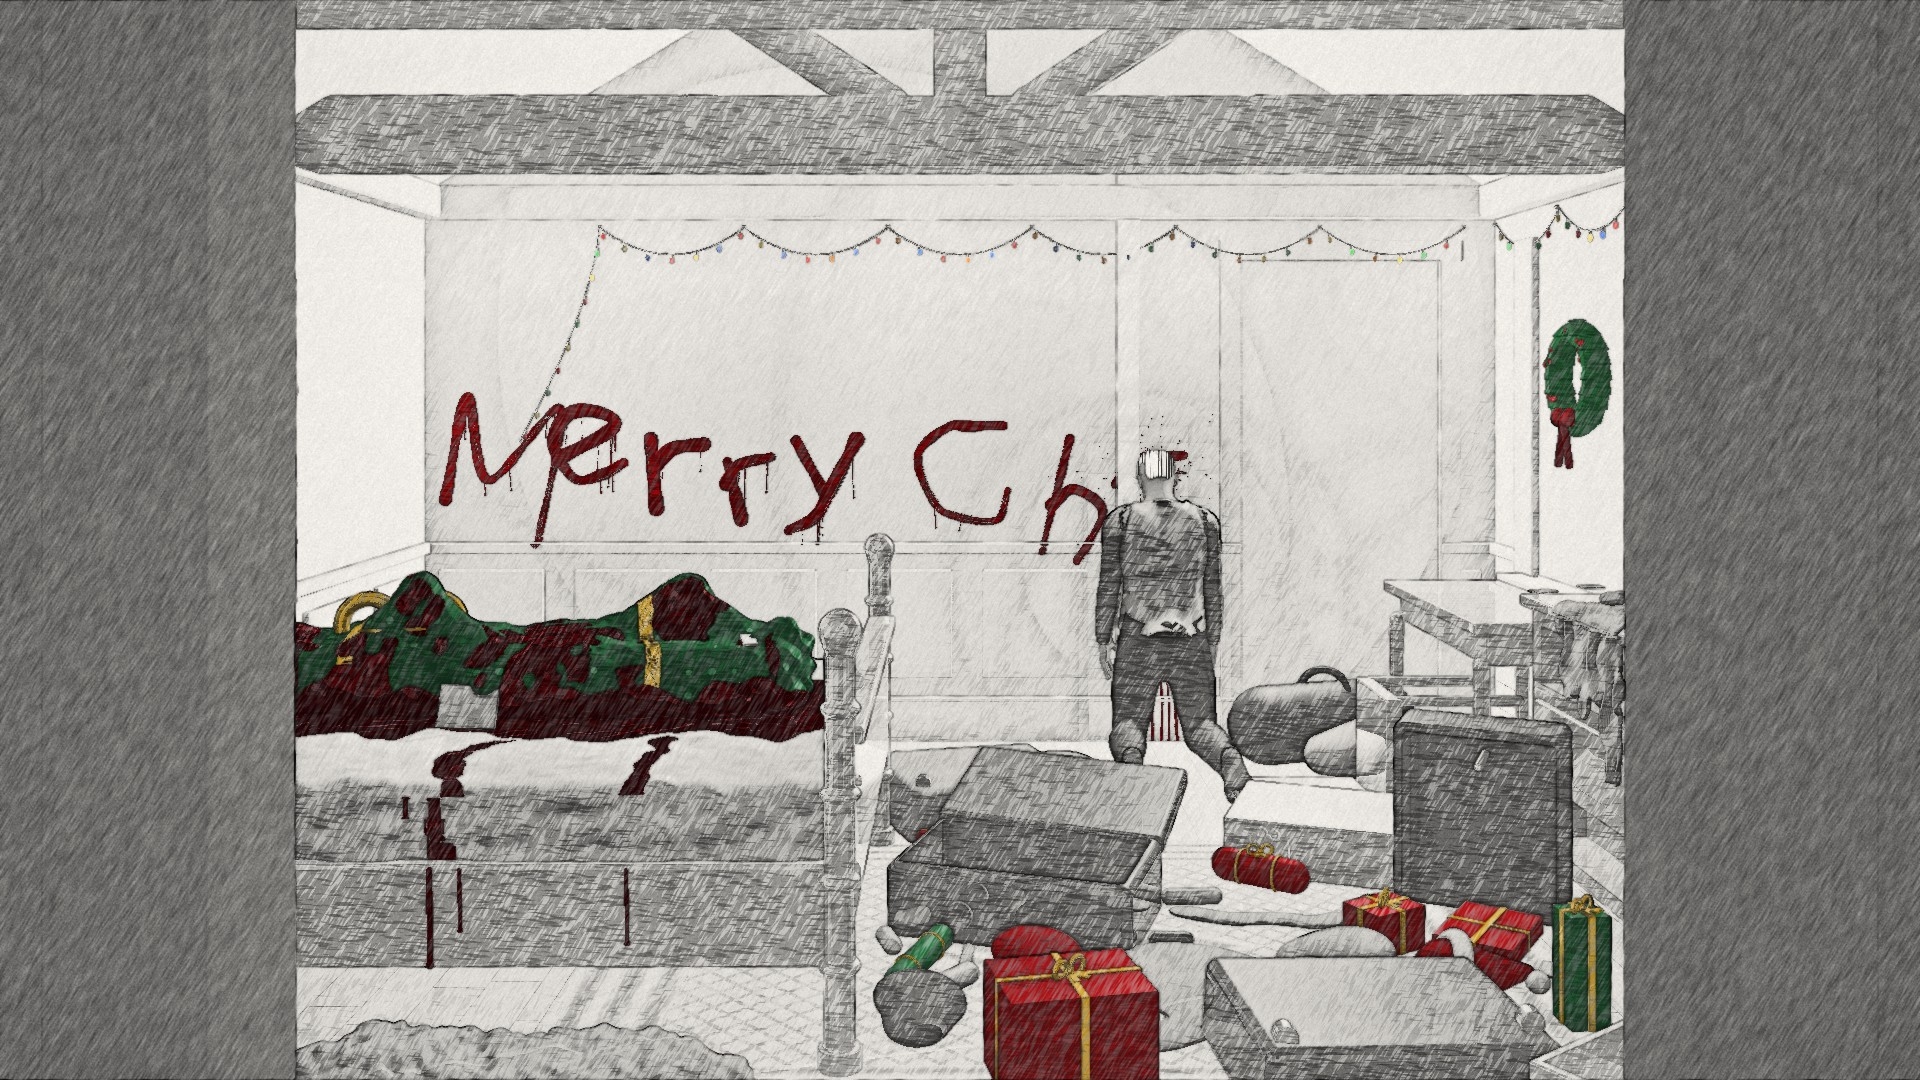
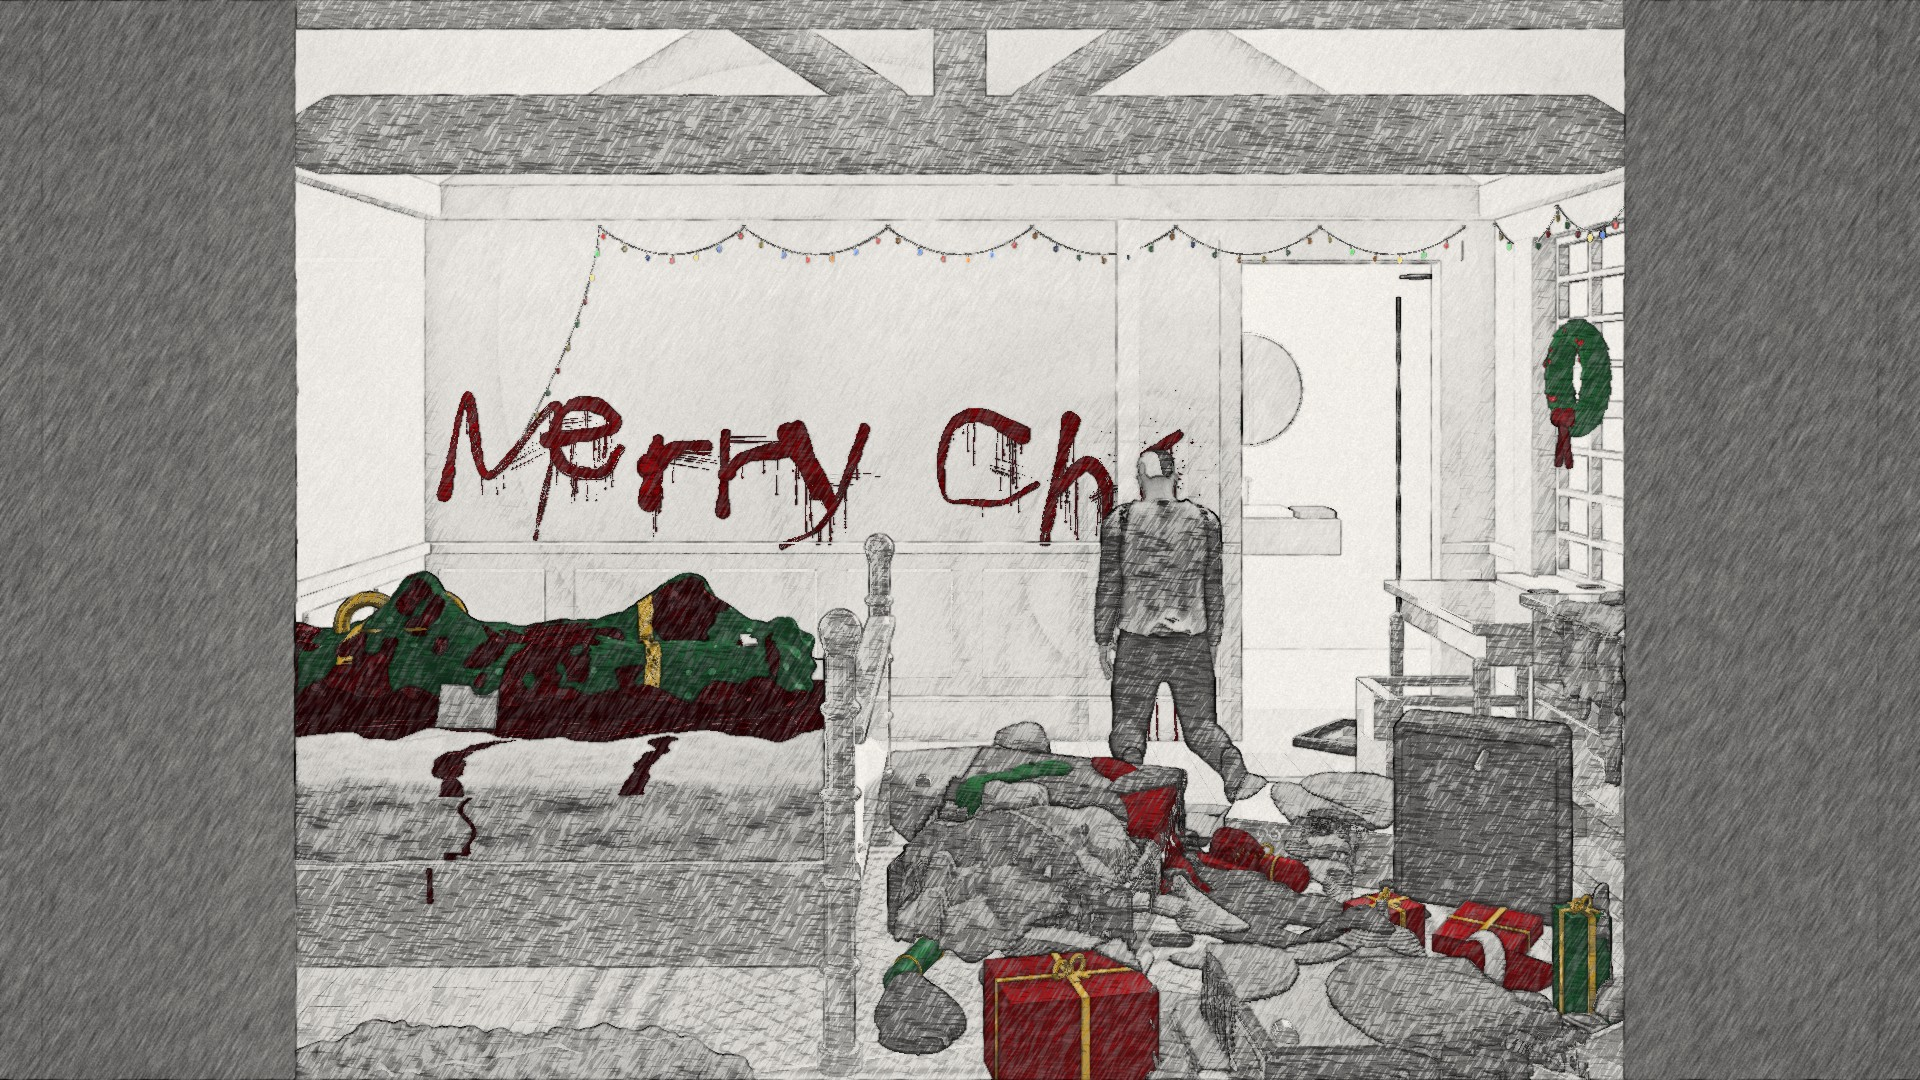
Merry Chr: final still, animation prompt, handover note
Claude-Session: https://claude.ai/code/session_01Xum8UGhykEn4WfGmadyhVR

diff --git a/story/prompts/merry-chr-animation.md b/story/prompts/merry-chr-animation.md
@@ -1,0 +1,46 @@
+# Prompt for the next session: animate 'Merry Chr'
+
+Continue the Yuletide project on this branch. Read `CLAUDE.md`, then `story/status.md`, then
+`story/horror-merry-chr.md`, and the guides it names (`guides/tone.md`, `guides/movement.md`,
+`guides/pipeline.md`, `guides/character-anatomy.md`). The approved still is
+`animations/yuletide-merry-chr-still.jpg`; the recipe is `source/shots/h1_merry_chr.py`.
+
+Animate the 'Merry Chr' horror shot. The camera, room and everything in it stay exactly as in the approved
+still: the camera never moves; nothing in the room moves except what is listed here.
+
+**Length:** 3 seconds at 24 frames a second (enough to test the loop; in the trailer it will be cut to about
+1 s). Draw on twos, but the strikes on ones.
+
+**The man (the only thing that moves):**
+- He slams his forehead into the r, again and again, like a machine: pull back 6-8 cm from the neck and upper
+  back, a short hold, then the strike. A strike every 0.9 s, the same rhythm every time (robotic, not
+  frantic). Controlled force: the strike is fast (2-3 frames), then a small recoil (1-2 cm) and settle; his
+  shoulders give a tiny jolt with each impact; his arms hang dead and barely sway. No other movement - no
+  breathing show, no looking round. Checks: his forehead meets the wall at contact, never passes into it.
+- Follow `guides/movement.md` for easing (slow out of the hold, no easing into the impact).
+
+**The blood at the r:** grows a little with every strike - the blotch spreads, a fresh ring of spatter flies
+out, one or two new drips start down the wall and lengthen over the next frames. Everything else on the wall
+is dry and still.
+
+**The fairy lights:** both strings (the back wall and the right-hand wall) flash in a broken, stuttering way,
+each bulb from `merry_chr.bulb_lit(i, t)`; a few stay dead. Their glow on the wall flickers with them.
+
+**Sound:** the THUD of each strike exactly on the impact frame, dull and close, over the trailer score at
+its most distorted (`music/horror-trailer-score.m4a` - pick the most insane passage). The THUDs are the
+loudest thing.
+
+**How to work (budget):**
+- Only the man, the blood at the r and the lights change, so use the partial redraw in `shot.py sequence`
+  (render and redraw only the changed patches). The drawing uses this shot's `exposure`, `frame_depth` and
+  `contrast_budget` settings - keep them.
+- Make a quarter-size animatic first (no pencil pass), check the timing and the contact, and only then do
+  the full render. Render in the background and report once at the end.
+- Finish with an MP4 under a few MB in `animations/`, sent to me in the chat.
+
+**Small faults to fix on the way (from the still):**
+- His short grey hair still draws as a pale patch; it should read as a dark, close-cropped head of hair.
+- A few toiletries and one torn suitcase lid don't fit on the floor and are left out - fine unless there is an
+  easy place for them.
+
+Update `story/status.md` at the end.

diff --git a/story/status.md b/story/status.md
@@ -9,7 +9,10 @@ Read this first in any new session, after CLAUDE.md.
   Finished video: `animations/yuletide-animation-test.mp4`.
 - **Look book** (`lookbook/`), **tone guide** (`guides/tone.md`), **premise and title cards**
   (`story/yuletide.md`).
-- **Horror still 'Merry Chr' (spare room)** - mock-up drawn, awaiting the director's verdict. Brief and
+- **Horror still 'Merry Chr' (spare room)** - approved mock-up, reframed from the dark landing (level
+  shift lens, doorcase border, low winter light, contrast kept for the present and the wall). Floor things are
+  placed so none sits inside another; clothes drape over what is under them; checks cover this and the
+  wall openings. Brief and
   notes: `story/horror-merry-chr.md`. Recipe `source/shots/h1_merry_chr.py`; set `source/spare_room.py`;
   present, blood writing, wreckage, dresser things and the broken fairy lights `source/merry_chr.py`; the
   kneeling man `source/man.py`. Still: `animations/yuletide-merry-chr-still.jpg`. The shot tool now builds
@@ -25,7 +28,7 @@ Read this first in any new session, after CLAUDE.md.
 - Speeding up the hair grid build (~90 s per drawing).
 - The parting at the mother's crown reads as a squared-off patch, and a faint bright line runs along her
   hairline, when the camera looks down on her hair.
-- 'Merry Chr' next: animate it - the head strikes on the THUDs (the blotch growing with each), the fairy
+- 'Merry Chr' next: animate it - the prompt for that session is `story/prompts/merry-chr-animation.md` - the head strikes on the THUDs (the blotch growing with each), the fairy
   lights flashing brokenly (`merry_chr.bulb_lit(i, t)` already gives each bulb's state at time t).
 - Next (director): lock a full trailer shot list timed to the finished score
   (`music/horror-trailer-score.m4a`) before building more.
